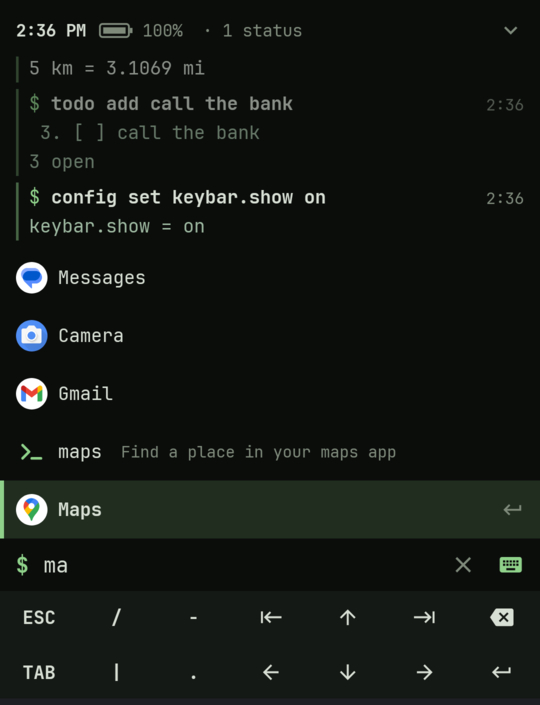
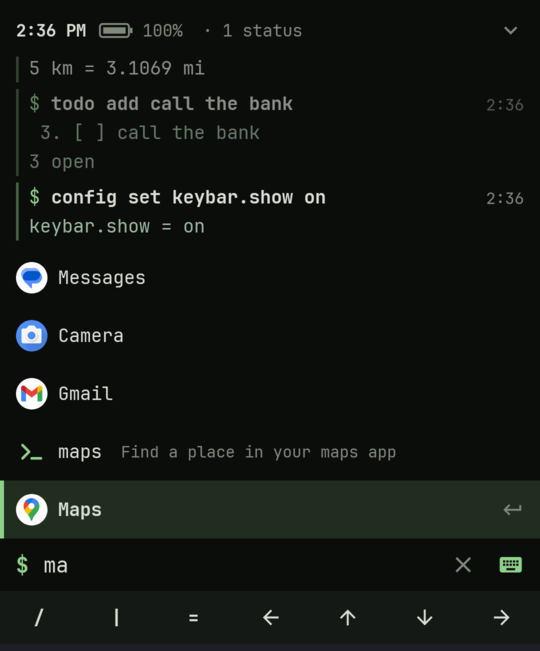
Key bar: one row, of what the keyboard leaves out
The default is now / | = and the four arrows. Esc, Tab, Home, End,
backspace, Enter, - and . are still there to add with keybar.row1 and
keybar.row2.

A pipe no longer needs a space before it, as the bar's | adds none, and
↓ keeps a line that changed by the bar or a suggestion after ↑.

diff --git a/app/src/androidTest/java/com/mtwabpin/kolahal/ui/KeyBarTest.kt b/app/src/androidTest/java/com/mtwabpin/kolahal/ui/KeyBarTest.kt
@@ -1,0 +1,143 @@
+package com.mtwabpin.kolahal.ui
+
+import android.app.Application
+import androidx.compose.foundation.layout.Box
+import androidx.compose.foundation.layout.WindowInsets
+import androidx.compose.foundation.layout.consumeWindowInsets
+import androidx.compose.foundation.layout.safeDrawing
+import androidx.compose.foundation.layout.size
+import androidx.compose.ui.Modifier
+import androidx.compose.ui.test.assertCountEquals
+import androidx.compose.ui.test.click
+import androidx.compose.ui.test.junit4.createComposeRule
+import androidx.compose.ui.test.onAllNodesWithTag
+import androidx.compose.ui.test.onAllNodesWithText
+import androidx.compose.ui.test.onLast
+import androidx.compose.ui.test.onNodeWithContentDescription
+import androidx.compose.ui.test.onNodeWithTag
+import androidx.compose.ui.test.performTouchInput
+import androidx.compose.ui.test.swipeRight
+import androidx.compose.ui.text.TextRange
+import androidx.compose.ui.text.input.TextFieldValue
+import androidx.compose.ui.unit.dp
+import androidx.test.ext.junit.runners.AndroidJUnit4
+import androidx.test.platform.app.InstrumentationRegistry
+import com.mtwabpin.kolahal.data.Config
+import com.mtwabpin.kolahal.data.Keys
+import com.mtwabpin.kolahal.terminal.Suggestion
+import com.mtwabpin.kolahal.terminal.TerminalViewModel
+import org.junit.After
+import org.junit.Assert.assertEquals
+import org.junit.Assert.assertTrue
+import org.junit.Before
+import org.junit.Rule
+import org.junit.Test
+import org.junit.runner.RunWith
+
+/** The default key bar, with real touches on the home screen. */
+@RunWith(AndroidJUnit4::class)
+class KeyBarTest {
+    @get:Rule val compose = createComposeRule()
+    private val app = InstrumentationRegistry.getInstrumentation().targetContext.applicationContext as Application
+    private val config = Config.get(app)
+    private lateinit var vm: TerminalViewModel
+
+    @Before fun show() {
+        config.set(Keys.KEYBAR_SHOW, "on")
+        config.set(Keys.KEYBAR_AUTO, "off")
+        compose.runOnUiThread { vm = TerminalViewModel(app, androidx.lifecycle.SavedStateHandle()) }
+        compose.setContent {
+            KolahalTheme {
+                Box(Modifier.size(360.dp, 700.dp).consumeWindowInsets(WindowInsets.safeDrawing)) {
+                    TerminalScreen(vm, onPickFolder = {})
+                }
+            }
+        }
+        compose.waitForIdle()
+    }
+
+    @After fun tearDown() = Keys.ALL.forEach(config::reset)
+
+    private fun put(text: String, cursor: Int = text.length) {
+        compose.runOnIdle { vm.onInputChange(TextFieldValue(text, TextRange(cursor))) }
+        compose.waitForIdle()
+    }
+
+    /** The arrows are drawn as icons described by their name; the symbols are text. */
+    private fun press(key: String) {
+        val node = when (key) {
+            "left", "up", "down", "right" -> compose.onNodeWithContentDescription(key, useUnmergedTree = true)
+            else -> compose.onAllNodesWithText(key, useUnmergedTree = true).onLast()
+        }
+        node.performTouchInput { click() }
+        compose.waitForIdle()
+    }
+
+    /** Runs a line no earlier run has, and returns it once ↑ can reach it. */
+    private fun ran(): String {
+        val line = "echo ${System.nanoTime()}"
+        put(line)
+        compose.runOnIdle { vm.submit() }
+        compose.waitUntil(10_000) { compose.runOnIdle { vm.entries.value.any { line in it.text } } }
+        put("")
+        return line
+    }
+
+    private val text get() = compose.runOnIdle { vm.input.text }
+    private val cursor get() = compose.runOnIdle { vm.input.selection.end }
+
+    @Test fun oneRowByDefault() {
+        compose.onAllNodesWithTag("keybar", useUnmergedTree = true).assertCountEquals(1)
+    }
+
+    @Test fun theSymbolsGoInAtTheCursor() {
+        put("ab", 1)
+        for (key in listOf("/", "|", "=")) press(key)
+        assertEquals("a/|=b", text)
+        assertEquals(4, cursor)
+    }
+
+    @Test fun theArrowsMoveTheCursor() {
+        put("abc", 1)
+        press("left")
+        assertEquals(0, cursor)
+        press("right")
+        press("right")
+        assertEquals(2, cursor)
+    }
+
+    @Test fun upAndDownWalkTheHistory() {
+        val line = ran()
+        put("draft")
+        press("up")
+        assertEquals(line, text)
+        press("down")
+        assertEquals("draft", text)
+    }
+
+    /** Found in review: ↓ went on walking the history and the edit was lost. */
+    @Test fun downKeepsAnEditFromTheBar() {
+        val line = ran()
+        press("up")
+        press("=")
+        press("down")
+        assertEquals("$line=", text)
+    }
+
+    @Test fun downKeepsALineASuggestionFilled() {
+        ran()
+        press("up")
+        compose.runOnIdle { vm.onSuggestion(Suggestion.Completion("todo", "todo ")) }
+        press("down")
+        assertEquals("todo ", text)
+    }
+
+    /** A drag that starts on a symbol moves the cursor and types nothing. */
+    @Test fun draggingAcrossTheBarMovesTheCursor() {
+        put("abcdefgh", 0)
+        compose.onNodeWithTag("keybar", useUnmergedTree = true).performTouchInput { swipeRight() }
+        compose.waitForIdle()
+        assertEquals("abcdefgh", text)
+        assertTrue("the cursor is at $cursor", cursor > 0)
+    }
+}

diff --git a/app/src/main/java/com/mtwabpin/kolahal/terminal/TerminalViewModel.kt b/app/src/main/java/com/mtwabpin/kolahal/terminal/TerminalViewModel.kt
@@ -675,6 +675,7 @@ class TerminalViewModel(app: Application, private val state: SavedStateHandle) :
     fun insert(text: String) {
         val v = input
         val newText = v.text.replaceRange(v.selection.min, v.selection.max, text)
+        historyIndex = -1
         input = TextFieldValue(newText, TextRange(v.selection.min + text.length))
     }
 
@@ -682,13 +683,13 @@ class TerminalViewModel(app: Application, private val state: SavedStateHandle) :
         if (history.isEmpty()) return
         if (historyIndex == -1) draft = input.text
         historyIndex = (historyIndex + 1).coerceAtMost(history.lastIndex)
-        setText(history.getOrNull(historyIndex) ?: return)
+        recall(history.getOrNull(historyIndex) ?: return)
     }
 
     fun historyDown() {
         if (historyIndex == -1) return
         historyIndex--
-        setText(if (historyIndex == -1) draft else history.getOrNull(historyIndex) ?: draft)
+        recall(if (historyIndex == -1) draft else history.getOrNull(historyIndex) ?: draft)
     }
 
     /** Backspace for the touch key bar (deletes the selection or the char before the cursor). */
@@ -724,7 +725,6 @@ class TerminalViewModel(app: Application, private val state: SavedStateHandle) :
     }
 
     fun escape() {
-        historyIndex = -1
         setText("")
     }
 
@@ -753,7 +753,13 @@ class TerminalViewModel(app: Application, private val state: SavedStateHandle) :
         }
     }
 
+    /** A new line for the prompt: ↑ and ↓ start again from it. */
     private fun setText(text: String) {
+        historyIndex = -1
+        recall(text)
+    }
+
+    private fun recall(text: String) {
         input = TextFieldValue(text, TextRange(text.length))
     }
 

diff --git a/app/src/main/java/com/mtwabpin/kolahal/data/Config.kt b/app/src/main/java/com/mtwabpin/kolahal/data/Config.kt
@@ -68,7 +68,7 @@ object Keys {
         "keybar.row1", DEFAULT_KEYBAR,
         "Touch keys, comma separated: ESC TAB UP DOWN LEFT RIGHT HOME END BKSP ENTER SPACE KBD or literal text",
     )
-    val KEYBAR2 = ConfigKey.Text("keybar.row2", DEFAULT_KEYBAR2, "Second key bar row (same syntax; empty for one row)")
+    val KEYBAR2 = ConfigKey.Text("keybar.row2", DEFAULT_KEYBAR2, "Second key bar row (same syntax; empty by default)")
     val KEYBAR_SHOW = ConfigKey.Bool("keybar.show", false, "Show the touch key bar")
     val KEYBAR_AUTO = ConfigKey.Bool("keybar.auto", true, "Show the key bar only while the on-screen keyboard is up for the prompt (off: always)")
     val KEYBAR_HEIGHT = ConfigKey.Num("keybar.height", 40, 20..64, "Key bar row height (dp); smaller leaves more room for the log")
@@ -238,8 +238,9 @@ object Keys {
     }
 }
 
-private const val DEFAULT_KEYBAR = "ESC,/,-,HOME,UP,END,BKSP"
-private const val DEFAULT_KEYBAR2 = "TAB,|,.,LEFT,DOWN,RIGHT,ENTER"
+// What a keyboard's letters page doesn't have: the rest (`.`, backspace, Enter) sits right below the bar.
+private const val DEFAULT_KEYBAR = "/,|,=,LEFT,UP,DOWN,RIGHT"
+private const val DEFAULT_KEYBAR2 = ""
 
 /** Snapshot of all settings; recomposes the UI when anything changes. */
 class Config private constructor(private val prefs: SharedPreferences) {

diff --git a/app/src/test/java/com/mtwabpin/kolahal/terminal/PipesTest.kt b/app/src/test/java/com/mtwabpin/kolahal/terminal/PipesTest.kt
@@ -19,6 +19,16 @@ class PipesTest {
         assertEquals(listOf("lua return 1 | 2"), Pipes.split("lua return 1 | 2"))
     }
 
+    /** The key bar's `|` adds no spaces. */
+    @Test fun spacesAroundThePipeAreOptional() {
+        for (line in listOf("help|grep feed", "help |grep feed", "help| grep feed", "help | grep feed")) {
+            assertEquals(line, listOf("help", "grep feed"), Pipes.split(line))
+        }
+        // Still not a pipe: `||` is code, whatever follows it.
+        assertEquals(listOf("js a ||grep"), Pipes.split("js a ||grep"))
+        assertEquals(listOf("js a || grep"), Pipes.split("js a || grep"))
+    }
+
     @Test fun grepIsCaseInsensitiveAndInvertible() {
         assertEquals(listOf("Apple", "pineapple"), run("grep apple", "Apple", "pear", "pineapple"))
         assertEquals(listOf("pear"), run("grep -v apple", "Apple", "pear", "pineapple"))

diff --git a/app/src/androidTest/java/com/mtwabpin/kolahal/ui/OnboardingTest.kt b/app/src/androidTest/java/com/mtwabpin/kolahal/ui/OnboardingTest.kt
@@ -163,9 +163,9 @@ class OnboardingTest {
     @Test fun theKeyBarShowsInThePreview() {
         show()
         repeat(4) { next() }
-        compose.onAllNodesWithText("ESC", useUnmergedTree = true).assertCountEquals(0)
+        compose.onAllNodesWithText("|", useUnmergedTree = true).assertCountEquals(0)
         tap("Key bar")
-        compose.onAllNodesWithText("ESC", useUnmergedTree = true).assertCountEquals(1)
+        compose.onAllNodesWithText("|", useUnmergedTree = true).assertCountEquals(1)
     }
 
     /** The app selector itself is in its preview once it's on, on the edge chosen. */

diff --git a/app/src/main/java/com/mtwabpin/kolahal/ui/KeyBar.kt b/app/src/main/java/com/mtwabpin/kolahal/ui/KeyBar.kt
@@ -75,7 +75,7 @@ private object CANCELLED
 private val REPEATING = setOf(KeyBarKey.UP, KeyBarKey.DOWN, KeyBarKey.LEFT, KeyBarKey.RIGHT, KeyBarKey.BKSP)
 
 /**
- * On-screen keys that touch keyboards lack: history, cursor, completion, and a few symbols.
+ * On-screen keys that touch keyboards lack: history, the cursor and a few symbols.
  * Up to [FILL_MAX] keys share the width; more scroll, with a fade marking the overflow.
  * Arrows and backspace repeat while held; dragging sideways across the bar moves the cursor.
  */

diff --git a/app/src/main/java/com/mtwabpin/kolahal/ui/OnboardingScreen.kt b/app/src/main/java/com/mtwabpin/kolahal/ui/OnboardingScreen.kt
@@ -288,7 +288,7 @@ private fun Keyboard(vm: TerminalViewModel) {
     Page("Above the keyboard", preview = { KeyboardPreview(vm) }) {
         SwitchRow(
             "Key bar",
-            "Arrows, Tab, Esc and more under the prompt, for editing what you type",
+            "History, arrows and a few symbols under the prompt, for what the keyboard leaves out",
             remember(version) { vm.config[Keys.KEYBAR_SHOW] },
         ) { vm.setConfig(Keys.KEYBAR_SHOW, if (it) "on" else "off") }
         SwitchRow(

diff --git a/app/src/test/java/com/mtwabpin/kolahal/data/ConfigDefaultsTest.kt b/app/src/test/java/com/mtwabpin/kolahal/data/ConfigDefaultsTest.kt
@@ -16,6 +16,9 @@ class ConfigDefaultsTest {
         assertEquals(5, Keys.LOG_SPACING.default)
         assertEquals(22, Keys.LOG_LINE_HEIGHT.default)
         assertEquals(false, Keys.LOG_TALLER_TAPS.default)
+        // From 0.4.10: one row, of what the keyboard's letters page doesn't have.
+        assertEquals("/,|,=,LEFT,UP,DOWN,RIGHT", Keys.KEYBAR.default)
+        assertEquals("", Keys.KEYBAR2.default)
     }
 
     /** kolahal@device until you set your own name: one word, without an @ of its own. */

diff --git a/app/src/main/java/com/mtwabpin/kolahal/terminal/Pipes.kt b/app/src/main/java/com/mtwabpin/kolahal/terminal/Pipes.kt
@@ -20,7 +20,7 @@ import java.util.concurrent.atomic.AtomicInteger
 object Pipes {
     val FILTERS = listOf("grep", "head", "tail", "count", "wc", "sort", "uniq")
 
-    private val SPLIT = Regex("""\s\|\s*(?=(?:${FILTERS.joinToString("|")})\b)""")
+    private val SPLIT = Regex("""(?<!\|)\s*\|\s*(?=(?:${FILTERS.joinToString("|")})\b)""")
 
     fun split(line: String): List<String> = line.split(SPLIT).map { it.trim() }.filter { it.isNotEmpty() }
 

diff --git a/docs/release/notes/0.4.10.md b/docs/release/notes/0.4.10.md
@@ -1,0 +1,15 @@
+Kolahal 0.4.10, package `com.mtwabpin.kolahal`, Android 9 or newer. It installs over 0.4.9 and keeps your data and settings.
+
+- **kolahal-0.4.10.apk**: the full build.
+- **kolahal-0.4.10-play.apk**: the Play build, the same app as on Google Play: no screen lock (`lock`, double-tap) and no calls in the log, and it finds people with Android's contact picker instead of reading your contacts. Play Protect may block either APK when sideloaded in India and some other countries, as both have notification access: install with scanning off, as the install guide says. Both APKs use the same package and key, so either installs over the other.
+
+## What's new
+
+- **A shorter key bar**: one row by default, with only what the keyboard's letters page leaves out: `/`, `|`, `=` and the four arrows. Esc, Tab, Home, End, backspace, Enter, `-` and `.` left the default, as the keyboard or the ✕ beside the prompt has most of them, and you can still add any of them with `keybar.row1` and `keybar.row2`. If you changed row 1, it stays as you set it and only row 2 goes: `config set keybar.row2 TAB,|,.,LEFT,DOWN,RIGHT,ENTER` brings the old one back.
+
+## Fixed
+
+- **Pipes without a space**: `help|grep feed` said "Command not found", and the key bar's `|` adds no space. The spaces around a `|` are optional now.
+- **↓ after editing a recalled line**: press ↑, add a symbol from the key bar and press ↓, and the edit was lost. It stays now, as it does when you type on the keyboard. The same goes for a line filled from a suggestion.
+
+**kolahal-0.4.10-mapping.zip** is only for reading crash reports from these builds; you don't need it to install.

diff --git a/site/src/content/docs/reference/config.md b/site/src/content/docs/reference/config.md
@@ -147,8 +147,8 @@ See [Widgets](/guides/widgets/).
 | `keybar.auto` | bool | `on` | show the key bar only while the on-screen keyboard is up for the prompt (off: always) |
 | `keybar.height` | number 20–64 | `40` | key bar row height (dp); smaller leaves more room for the log |
 | `prompt.height` | number 20–72 | `40` | prompt line height (dp), with the keyboard up or down; it never gets shorter than its text |
-| `keybar.row1` | text | `ESC,/,-,HOME,UP,END,BKSP` | touch keys, comma separated: `ESC` `TAB` `UP` `DOWN` `LEFT` `RIGHT` `HOME` `END` `BKSP` `ENTER` `SPACE` `KBD` or literal text |
-| `keybar.row2` | text | `TAB,\|,.,LEFT,DOWN,RIGHT,ENTER` | second key bar row (same syntax; empty for one row) |
+| `keybar.row1` | text | `/,\|,=,LEFT,UP,DOWN,RIGHT` | touch keys, comma separated: `ESC` `TAB` `UP` `DOWN` `LEFT` `RIGHT` `HOME` `END` `BKSP` `ENTER` `SPACE` `KBD` or literal text |
+| `keybar.row2` | text | empty | second key bar row (same syntax; empty by default) |
 | `keyboard.on-home` | bool | `off` | open the soft keyboard whenever home is shown |
 | `keyboard.suggestions` | bool | `off` | prompt keyboard suggestions. Off uses a password-type field: no autocorrect, but Latin-only on some keyboards |
 
